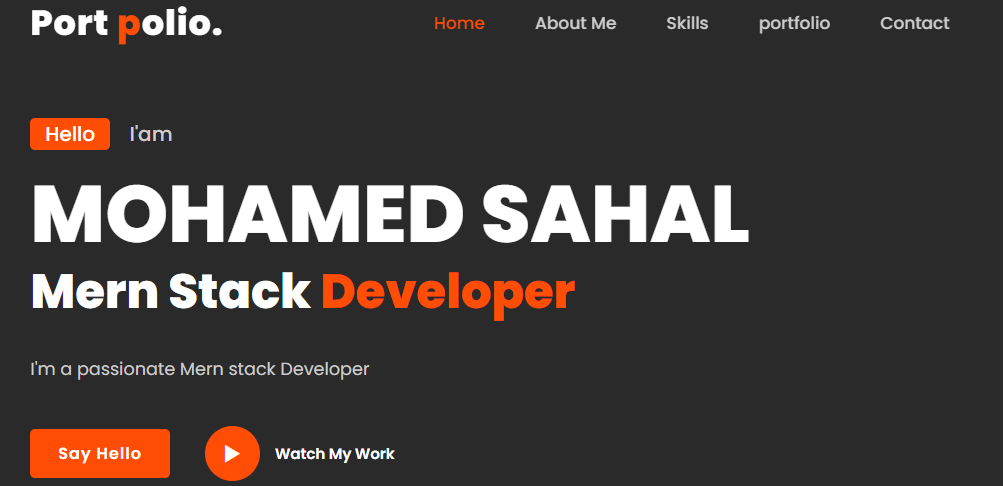
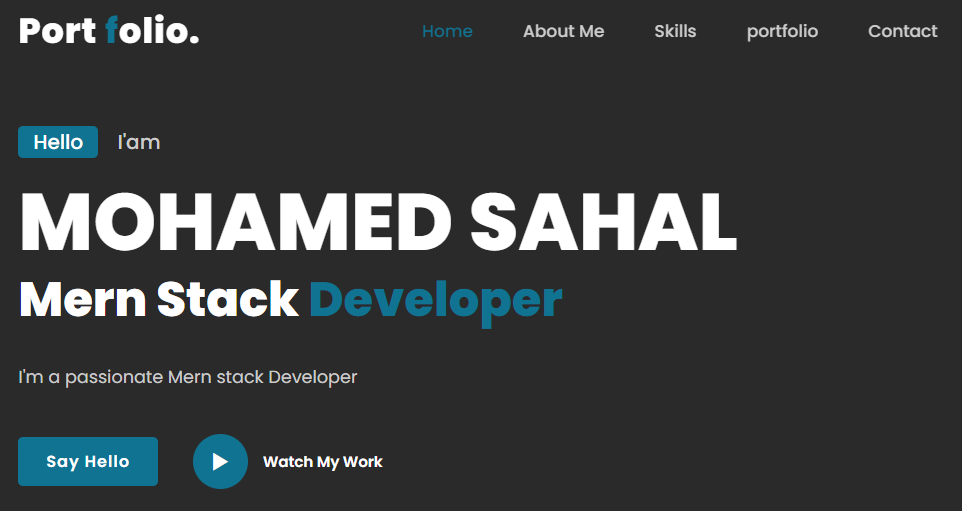
updation

diff --git a/personal.css b/personal.css
@@ -15,7 +15,7 @@
     --second-bg-color:#202020;
     --text-color:#fff;
     --second-color:#ccc;
-    --main-color:#ff4d05;
+    --main-color:rgb(15, 115, 145);
     --big-font:5rem;
     --h1-font:5.2rem;
     --h2-font:3.5rem;
